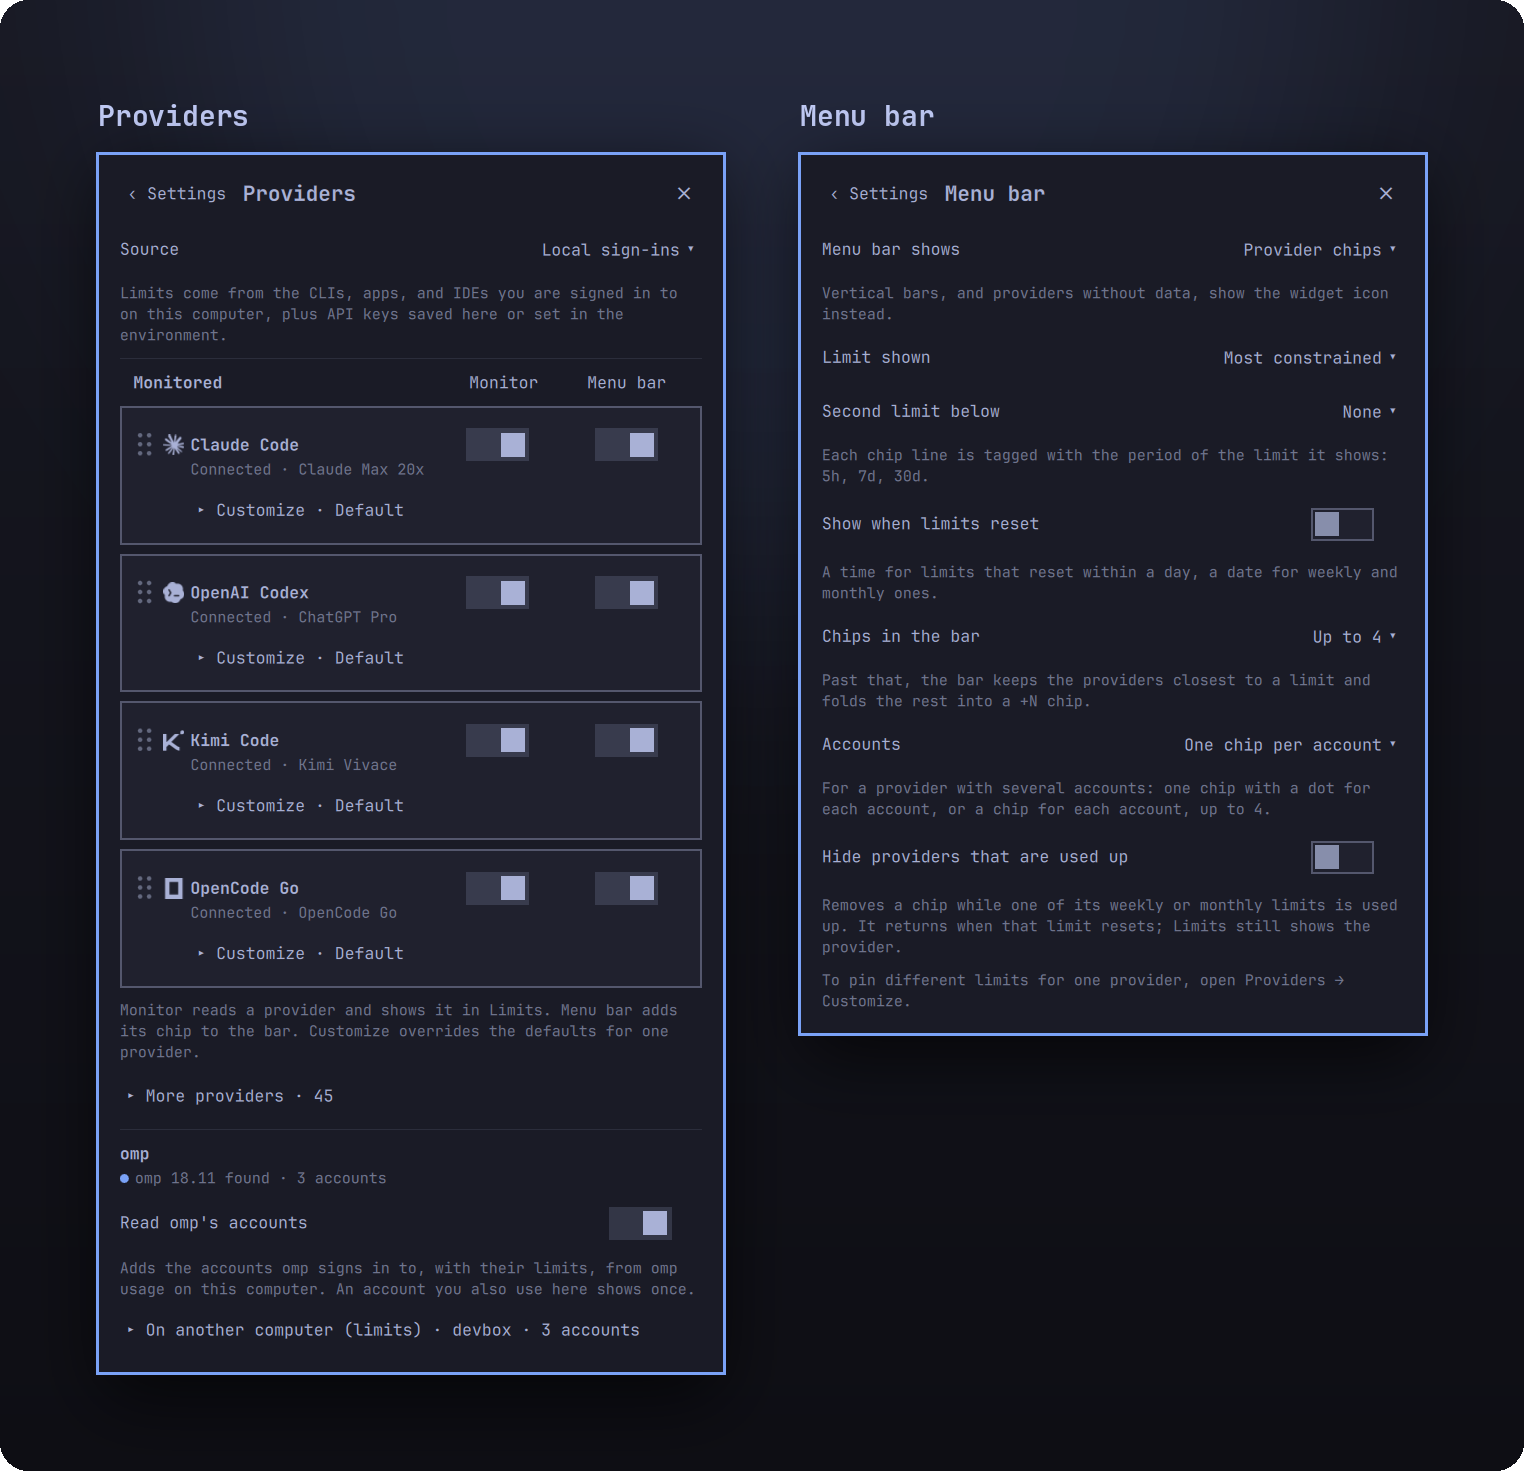
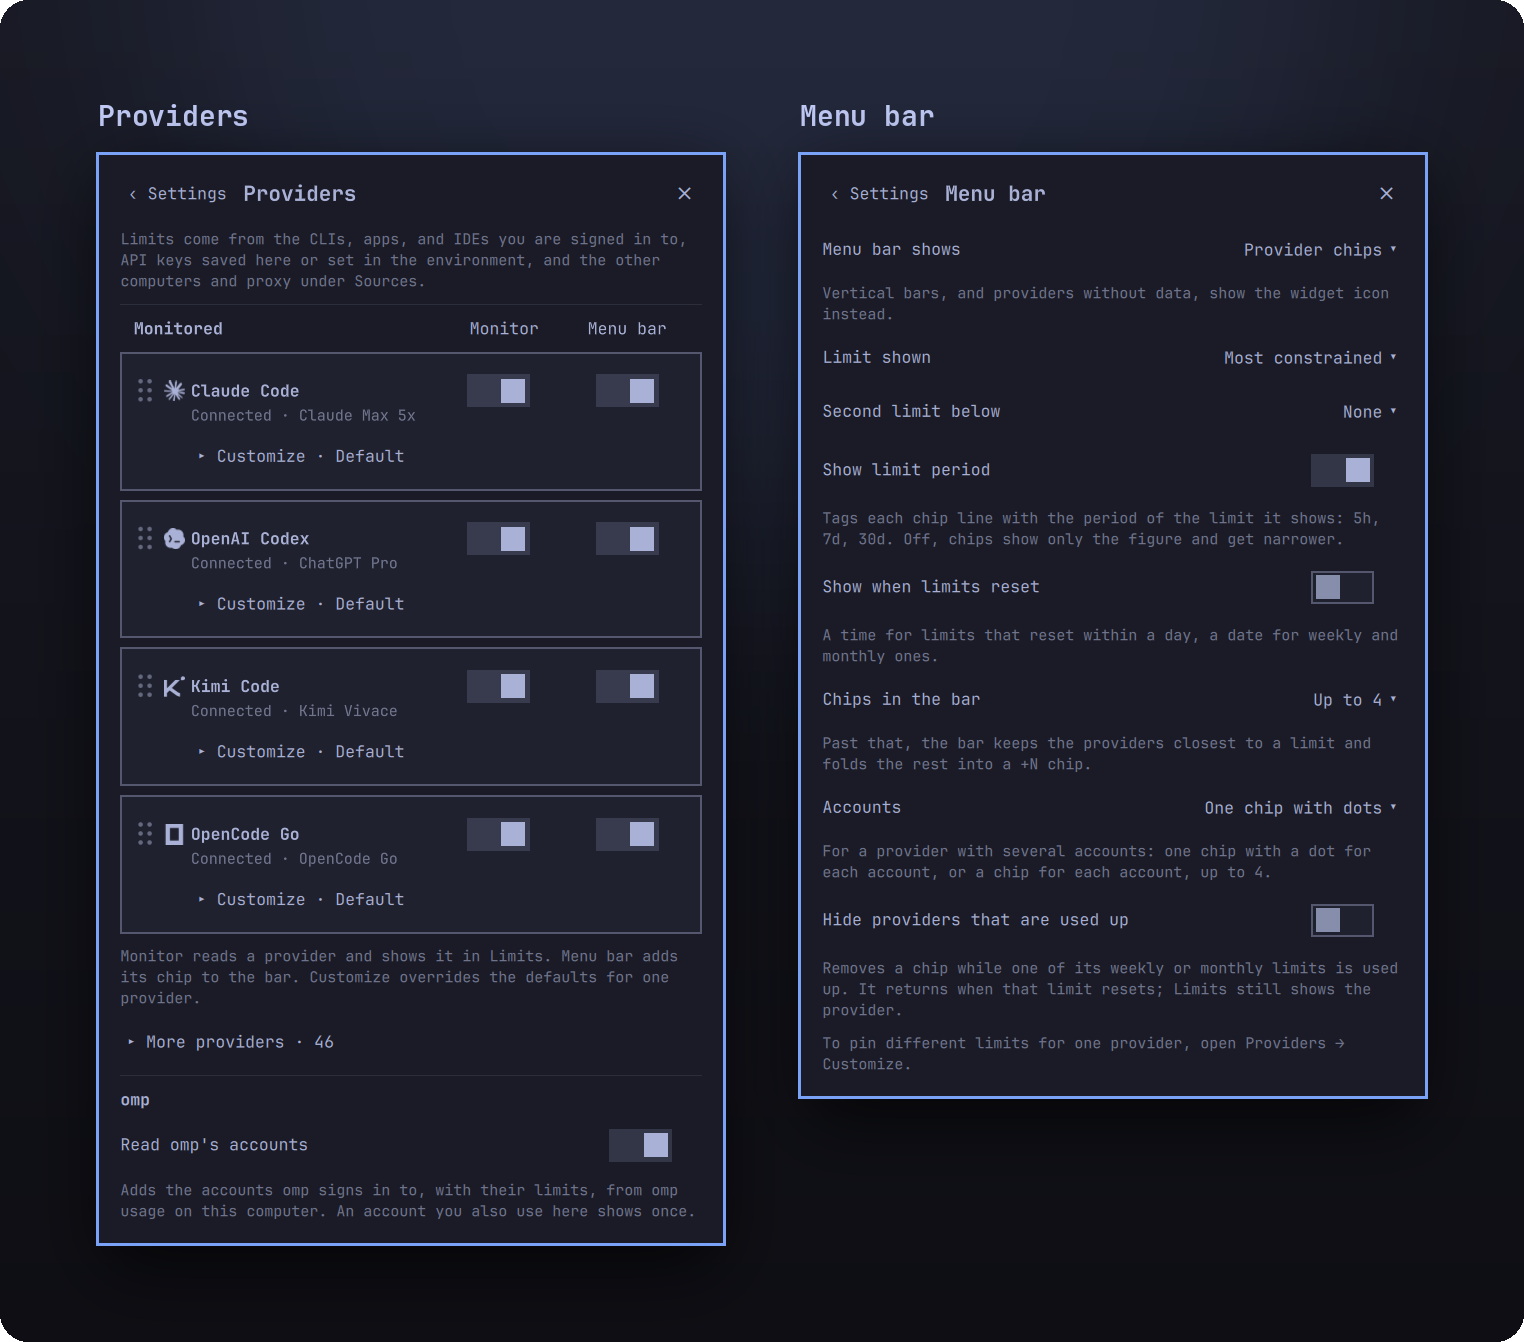
Sources: proxy rows say via proxy; screenshots of Settings → Sources
An account read through CLIProxyAPI showed only its plan, so nothing told it apart from one read
here; its row now says "via proxy", as another computer's says "on devbox". sources.png
(Settings → Sources beside Limits with accounts from here, devbox and the proxy) replaces omp.png,
whose readers are gone, and settings.png shows the 3.0 Providers page.

diff --git a/tests/test_usage_logic.js b/tests/test_usage_logic.js
@@ -1248,6 +1248,10 @@ console.log("Provider setup: passed");
   const staleLine = context.accountStatusLine({ ...remoteAccount, stale: true, readAt: "2030-01-15T12:00:00Z" }, false, 0, null);
   assert.equal(staleLine.text + " " + clock(staleLine.at), "devbox not answering since 12:00");
   assert.equal(context.accountStatusLine({ id: "claude", status: "ok", windows: [], standIn: { id: "c-00000001", name: "devbox" } }, false, 0, null).text, "read on devbox");
+  const proxyAccount = { id: "claude", accountId: "auth-1", status: "ok", windows: [], plan: "max", origin: "proxy",
+    proxy: { id: "p-00000001", name: "CLIProxyAPI" } };
+  assert.equal(context.accountStatusLine(proxyAccount, false, 0, null).text, context.accountPlanLabel(proxyAccount) + " · via proxy",
+    "a plan does not hide that the account was read through a proxy");
   assert.equal(context.accountLiveAt({ id: "claude", accountId: "main", liveIds: ["c-00000001/omp-0123456789ab"] },
     { "claude@c-00000001/omp-0123456789ab": 1800000000 }), 1800000000, "a request on devbox counts for the same account here");
   assert.equal(context.costSourceSummary([{ kind: "local", included: true }, { kind: "computer", name: "devbox", status: "stale", included: true }], false),

diff --git a/UsageLogic.js b/UsageLogic.js
@@ -3206,7 +3206,9 @@ function accountStatusLine(account, spending, nowSeconds, event) {
     return { kind: event.kind, text: event.kind === "switch" ? "switched" : "reset", at: eventAt, tone: "accent" }
   if (account.standIn && account.standIn.name)
     return { kind: "standin", text: (readingProxy(account) ? "read through " : "read on ") + account.standIn.name, at: null, tone: "dim" }
-  var where = account.computer && account.computer.name ? "on " + account.computer.name : ""
+  // "via proxy", not the proxy's name: beside a plan, "through CLIProxyAPI" does not fit a row.
+  var where = account.computer && account.computer.name ? "on " + account.computer.name
+    : readingProxy(account) ? "via proxy" : ""
   if (account.plan || account.planType)
     return { kind: "plan", text: accountPlanLabel(account) + (where ? " · " + where : ""), at: null, tone: "dim" }
   return { kind: "source", text: where || accountSourceLabel(accountSourceKind(account)), at: null, tone: "dim" }

diff --git a/CHANGELOG.md b/CHANGELOG.md
@@ -16,7 +16,7 @@ All notable changes to this project will be documented here. The format follows
 
 ### Changed
 
-- **No more proxy mode.** A CLIProxyAPI server no longer replaces this computer: its Claude, Codex, Kimi and Antigravity accounts join the providers you monitor, with one **Monitor** switch per provider for every source, and an account this computer already read fine is not asked for again. Providers the proxy cannot read quotas for are no longer listed as unsupported. A proxy that stops answering keeps its last accounts, marked stale, and banked resets go through the proxy that read the account.
+- **No more proxy mode.** A CLIProxyAPI server no longer replaces this computer: its Claude, Codex, Kimi and Antigravity accounts join the providers you monitor, with one **Monitor** switch per provider for every source, and an account this computer already read fine is not asked for again. Its rows say **via proxy**, as another computer's say **on devbox**. Providers the proxy cannot read quotas for are no longer listed as unsupported. A proxy that stops answering keeps its last accounts, marked stale, and banked resets go through the proxy that read the account.
 - **omp on another computer is read over SSH.** The `omp stats` dashboard and the omp auth gateway readers are gone: add that computer under **Settings → Sources** instead. After the update, a notice in Limits says so when they were set up.
 - **CPA Usage Keeper belongs to its proxy** under **Settings → Sources**, and never feeds Costs. T3 Code servers moved there from **Settings → Costs**.
 - **Settings move once.** The first time this version runs, `usageSource`, `cliproxyUrl`, `cliproxyKeyFile`, `costKeeperUrl`, `costKeeperPasswordFile` and `costT3Servers` become entries of `sources`, keeping their saved keys; `ompStatsUrl`, `ompGatewayUrl` and `ompGatewayKeyFile` are dropped. After proxy mode, the providers the proxy read are the ones monitored, so the bar stays as it was and this computer's other providers show under **Found**. Backups made by 2.3.0 still restore, keys included.

diff --git a/README.md b/README.md
@@ -206,6 +206,8 @@ Privacy:
 
 On first open, a short setup walks **Sources** (where your agents run), **Providers** (what was found) and **Menu bar**. Everything is read together: the same account read in two places is one row.
 
+![Settings → Sources with devbox answering, ci@buildbox not answering since its last reading, and a Test of workstation that connected, found Python, readied the readers and read two accounts; beside it Limits, where the Claude accounts read here, on devbox and through CLIProxyAPI are one list: Work spending now, Team via proxy, and Personal on devbox](https://raw.githubusercontent.com/JanitorHead/omarchy-quotatank/main/docs/screenshots/sources.png)
+
 ```mermaid
 flowchart TB
   subgraph Sources
